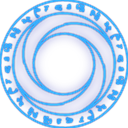
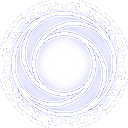
portal colors

diff --git a/core/src/contrib/entities/objects/Portal.ts b/core/src/contrib/entities/objects/Portal.ts
@@ -5,9 +5,10 @@ import { Matrix, Sprite } from "pixi.js";
 export type PortalProps = {
   pos: { x: number, y: number }
   game: string
+  tint?: number
 }
 
-export const Portal = ({ pos, game }: PortalProps): Entity => {
+export const Portal = ({ pos, game, tint }: PortalProps): Entity => {
   const portal = Entity<Renderable>({
     id: `portal-${game}`,
     components: {
@@ -25,7 +26,7 @@ export const Portal = ({ pos, game }: PortalProps): Entity => {
         width: 256,
         height: 128,
         hoverOver: () => {
-          portal.components.renderable.c.filters = [new OutlineFilter({ thickness: 0.1, color: 0xffffff })]
+          portal.components.renderable.c.filters = [new OutlineFilter({ thickness: 0.1, color: 0xffff00 })]
         },
         hoverOut: () => {
           portal.components.renderable.c.filters = []
@@ -34,6 +35,7 @@ export const Portal = ({ pos, game }: PortalProps): Entity => {
       }),
       renderable: new Renderable({
         zIndex: 1,
+        color: tint ?? 0xffffff,
         setContainer: async () => {
           const textures = await loadTexture("portal.json");
           const sprite = new Sprite({ texture: textures["portal"] });

diff --git a/games/hubworld/Hubworld.ts b/games/hubworld/Hubworld.ts
@@ -12,10 +12,10 @@ export const Hubworld = IsometricGame({
     entities: [
       Background({ img: "stars.png" }),
 
-      Portal({ pos: { x: 416, y: 80 }, game: "aram" }),
-      Portal({ pos: { x: -608, y: 80 }, game: "legends" }),
-      Portal({ pos: { x: 416, y: 592 }, game: "soccer" }),
-      Portal({ pos: { x: -608, y: 592 }, game: "strike" }),
+      Portal({ pos: { x: 416, y: 80 }, game: "aram", tint: 0x00ff00 }),
+      Portal({ pos: { x: -608, y: 80 }, game: "legends", tint: 0xff0000 }),
+      Portal({ pos: { x: 416, y: 592 }, game: "soccer", tint: 0x0000ff }),
+      Portal({ pos: { x: -608, y: 592 }, game: "strike", tint: 0x000000 }),
 
       FloorTiles({ rows: 7, cols: 7, position: { x: -32 * 16, y: 32 } }),
       FloorTiles({ rows: 7, cols: 7, position: { x: 32 * 16, y: 32 } }),

diff --git a/core/src/contrib/components/Renderable.ts b/core/src/contrib/components/Renderable.ts
@@ -127,6 +127,8 @@ export class Renderable extends Component<"renderable"> {
     this.c.alpha = 1;
     this.c.children.forEach((child) => { child.alpha = 1 });
 
+    this.c.tint = this.color;
+
     if (this.animations) this.prepareAnimations(this.color ?? 0xffffff)
   }
 
